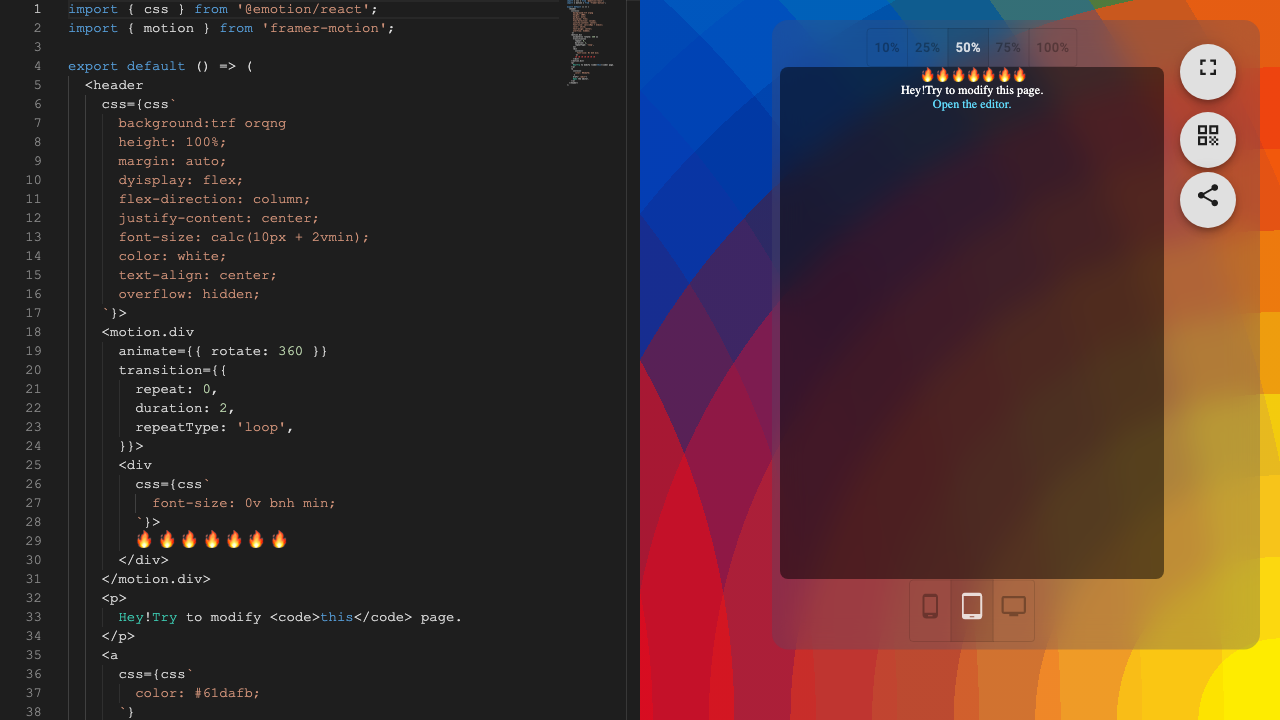
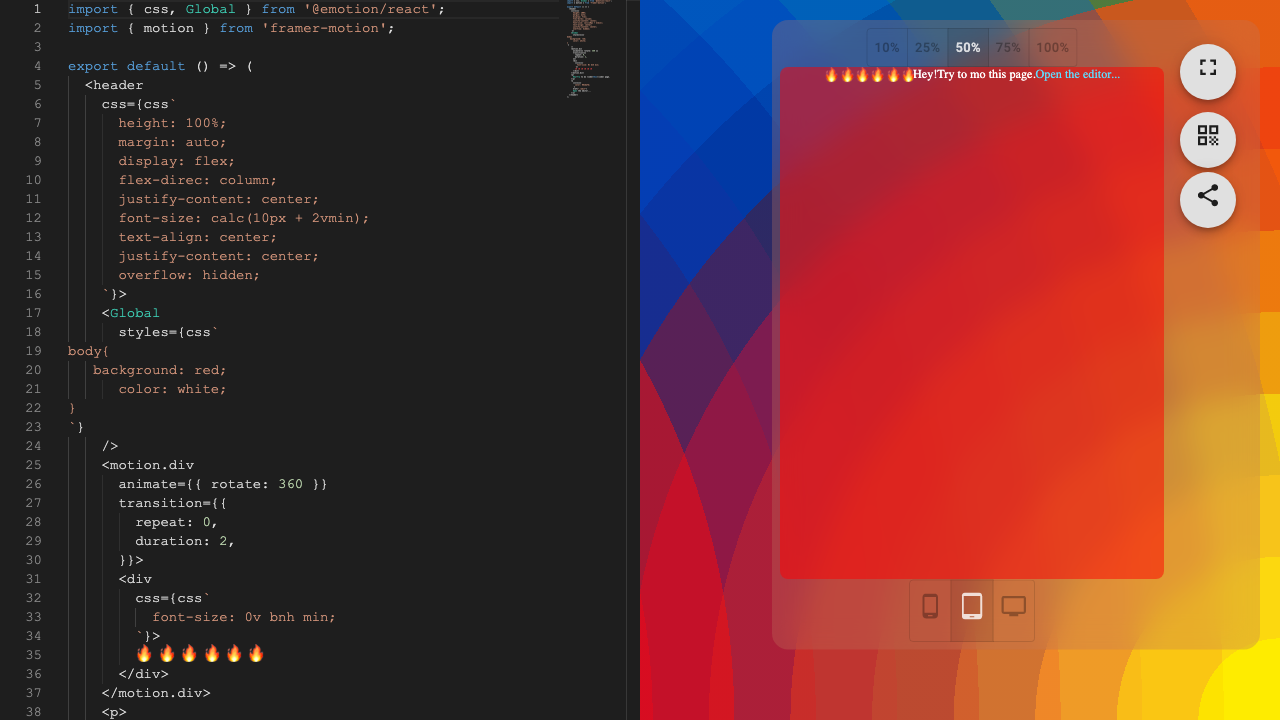
push

diff --git a/packages/code/js/runner.tsx b/packages/code/js/runner.tsx
@@ -102,71 +102,25 @@ export async function runner({ code, counter, codeSpace }: {
     const codeHash = md5(code).slice(0, 8);
     const transpiledCode = `${transpiled.code}//${codeHash}`;
 
-    const rendered = await render(transpiledCode, codeSpace);
+    const {html, css} = await render(transpiledCode, codeSpace);
 
-    if (!rendered) return;
+    if (!html) return;
 
 
-    patchSync({ ...mST(), code, i: counter, transpiled: transpiledCode, html: rendered });
+    patchSync({ ...mST(), code, i: counter, transpiled: transpiledCode,  html, css: css|| "" });
 
     
+    let i=20;
+while (!mST().css) {
+  console.log("Oh, nooo! Can't extract css, wait:", i);
 
-const {html, css} =  renderFromString(codeSpace, hashCode());
+    const {html, css} = renderFromString(codeSpace, hashCode());
 
-if (html && css)  patchSync({ ...mST(), html, css });
-else {
-  await wait(100);
-  const {html, css} =  renderFromString(codeSpace, hashCode());
-  if (html && css)  patchSync({ ...mST(), html, css });
+    if (html && css)  patchSync({ ...mST(), html, css });
+    else    await wait(i++);
+
 }
-
-    //   Try{
-    //     (async ()=>{
-    //       const name = `${location.origin}/live/${codeSpace}-${md5(code)}.tsx`;
-    //   const UMD = await toUmd(code,name);
-    //   console.log({ UMD });
-    // //  console.log(UMD?.toJs(name));
-    //     // const hashName = UMD?.hashMap[name];
-    //     // UMD?.data[hashName!].code +
-    //   // console.log(UMD.toJs(`${location.origin}/live/${codeSpace}-${md5(code)}.tsx`))
-    //     })();
-    //   }
-    //   catch(e){
-    //     console.error({e});
-    //   }
-    // if (transpiled.code === mST().transpiled) return;
-
-    // let restartError = false;
-    /// yellow
-    if (transpiled.code.length > 0) {
-      try {
-        // Console.log(transpiled);
-
-        // await appFactory();
-        // await wait(50);
-        // const res = renderFromString( App);
-
-        // if (res === null) {
-        //   console.error("COULD NOT RENDER:");
-        //   console.error({ code, transpiled: transpiled.code });
-        //   return;
-        // }
-        // const { html, css } = renderFromString(codeSpace);
-
-        // patchSync({...mST(), html, css});
-        // console.log({html, css});
-        // if (counter !== mod.i) return;
-        saveCode();
-
-        // Return;
-      } catch (error) {
-        console.error("EXCEPTION");
-        console.error(error);
-        // RestartError = true;
-        // console.error({ restartError });
-        // return;
-      }
-    }
+saveCode();
   } catch (error) {
     console.error({ error });
   }

diff --git a/packages/code/js/renderToString.tsx b/packages/code/js/renderToString.tsx
@@ -10,7 +10,7 @@ export const render = async (transpiled: string, codeSpace: string) => {
   const hash = md5(transpiled).slice(0, 8);
   const App = await appFactory(codeSpace, transpiled);
   if (isCallable(App)) {
-    return renderToString(
+    const html = renderToString(
       <div
       style={{
         height: "100%",
@@ -20,7 +20,9 @@ export const render = async (transpiled: string, codeSpace: string) => {
       <App />
     </div>,
     );
-  } else return null;
+    const css = extractCritical22(html);
+    return {html, css};
+  } else return {html: null, css: null};
 };
 // };
 export const renderFromString = (
